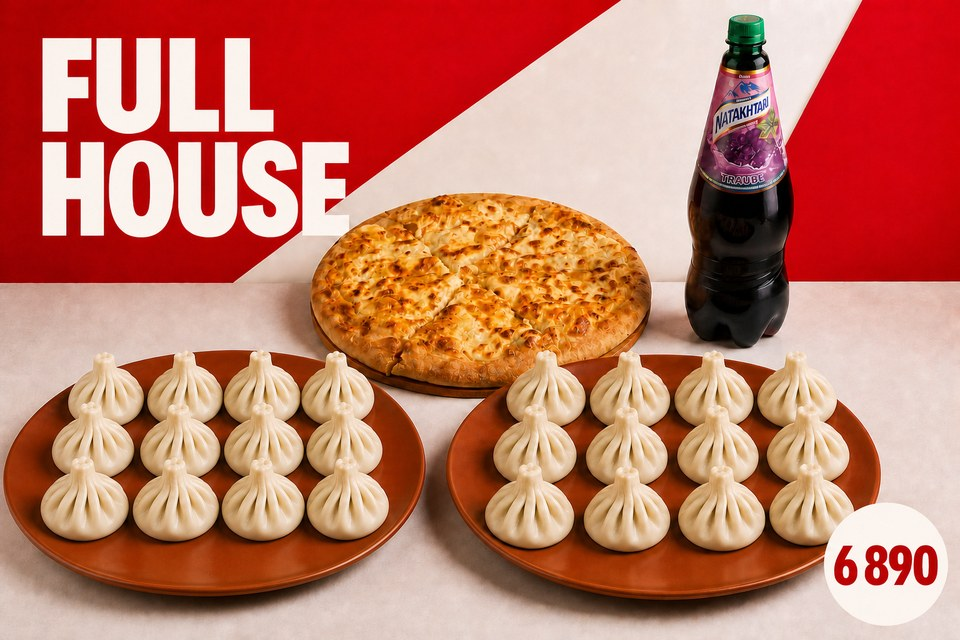
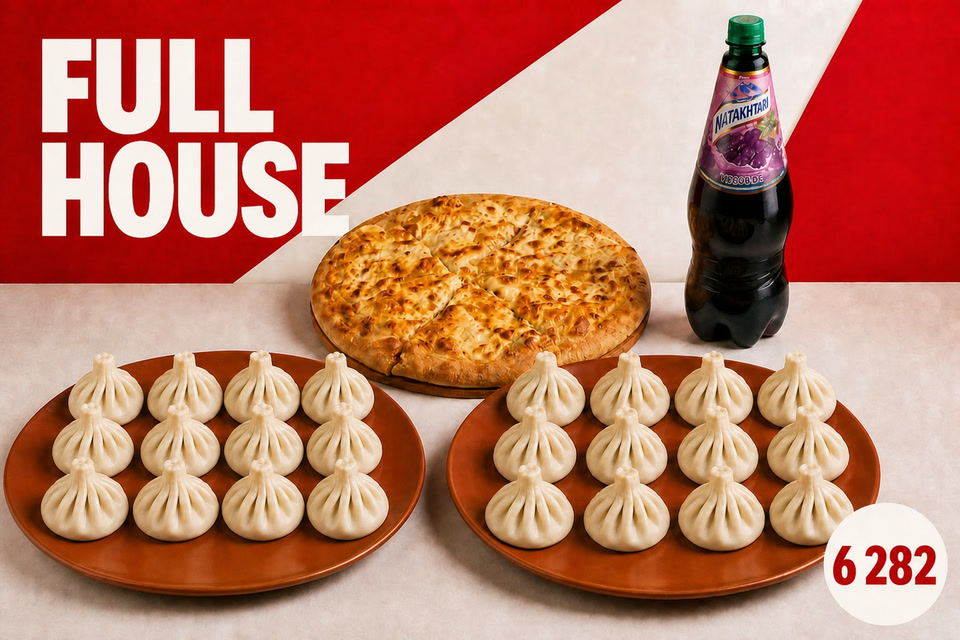
fix: update full house price artwork

diff --git a/apps/client/src/fixtures.ts b/apps/client/src/fixtures.ts
@@ -64,7 +64,7 @@ export const demoCategories: Category[] = [
     title: "Комбо",
     sort_order: 1,
     items: [
-      item("77777777-7777-7777-7777-777777777001", "66666666-6666-6666-6666-666666666001", "FULL HOUSE", "12 × хинкали с мясом • 12 × хинкали с сыром • 1 × хачапури по-мегрельски • 1 × Натахтари виноград 1 л", 6890, 10, staticMedia("full-house-card"), "на 4–5 человек"),
+      item("77777777-7777-7777-7777-777777777001", "66666666-6666-6666-6666-666666666001", "FULL HOUSE", "12 × хинкали с мясом • 12 × хинкали с сыром • 1 × хачапури по-мегрельски • 1 × Натахтари виноград 1 л", 6282, 10, staticMedia("full-house-card"), "на 4–5 человек"),
       item("77777777-7777-7777-7777-777777777002", "66666666-6666-6666-6666-666666666001", "ONE & DONE", "5 × хинкали с мясом • 1 × хачапури по-аджарски • 1 × Натахтари 0,5 л", 2490, 20, staticMedia("one-and-done-card"), "на 1 человека"),
       item("77777777-7777-7777-7777-777777777003", "66666666-6666-6666-6666-666666666001", "DOUBLE", "5 × хинкали с мясом • 5 × хинкали с сыром • 2 × оджахури • 1 × грузинский салат • 2 × Coca-Cola 0,5 л", 5690, 30, staticMedia("double-card"), "на 2–3 человек", "грецкий орех"),
       item("77777777-7777-7777-7777-777777777004", "66666666-6666-6666-6666-666666666001", "SWEET DUO", "2 × медовик • 2 × десерт «Шоколад-вишня»", 2290, 40, staticMedia("sweet-duo-card"), "4 десерта"),

diff --git a/apps/admin/src/api.ts b/apps/admin/src/api.ts
@@ -1188,7 +1188,7 @@ function seedMenu(): AdminMenuResponse {
       "12 × хинкали с мясом • 12 × хинкали с сыром • 1 × хачапури по-мегрельски • 1 × Натахтари виноград 1 л",
       "12 × hinkalija sa mesom • 12 × hinkalija sa sirom • 1 × megrelijski hačapuri • 1 × Natakhtari grožđe 1 l",
       "12 × beef khinkali • 12 × cheese khinkali • 1 × Megrelian khachapuri • 1 × grape Natakhtari 1 L",
-      "6890", "на 4–5 человек", 1, 10, media("full-house-card"),
+        "6282", "на 4–5 человек", 1, 10, media("full-house-card"),
     ),
     itemSeed(
       "77777777-7777-7777-7777-777777777002",

diff --git a/docs/combo-menu.md b/docs/combo-menu.md
@@ -6,7 +6,7 @@ Borjomi 0,5 л и десерта «Шоколад-вишня».
 
 | Сегмент | Название | Состав | Отдельно | Комбо | Экономия |
 |---|---|---|---:|---:|---:|
-| Семья, 4–5 человек | FULL HOUSE | 12 × хинкали с мясом, 12 × хинкали с сыром, 1 × хачапури по-мегрельски, 1 × Натахтари виноград 1 л | 7620 RSD | **6890 RSD** | **730 RSD (9,58%)** |
+| Семья, 4–5 человек | FULL HOUSE | 12 × хинкали с мясом, 12 × хинкали с сыром, 1 × хачапури по-мегрельски, 1 × Натахтари виноград 1 л | 7140 RSD | **6282 RSD** | **858 RSD (12,02%)** |
 | Один человек, XL | ONE & DONE | 5 × хинкали с мясом, 1 × хачапури по-аджарски, 1 × Натахтари 0,5 л | 2758 RSD | **2490 RSD** | **268 RSD (9,72%)** |
 | Пара XL или трое | DOUBLE | 5 × хинкали с мясом, 5 × хинкали с сыром, 2 × оджахури, 1 × грузинский салат, 2 × Coca-Cola 0,5 л | 6290 RSD | **5690 RSD** | **600 RSD (9,54%)** |
 | Двое или компания | SWEET DUO | 2 × медовик, 2 × десерта «Шоколад-вишня» | 2520 RSD | **2290 RSD** | **230 RSD (9,13%)** |
